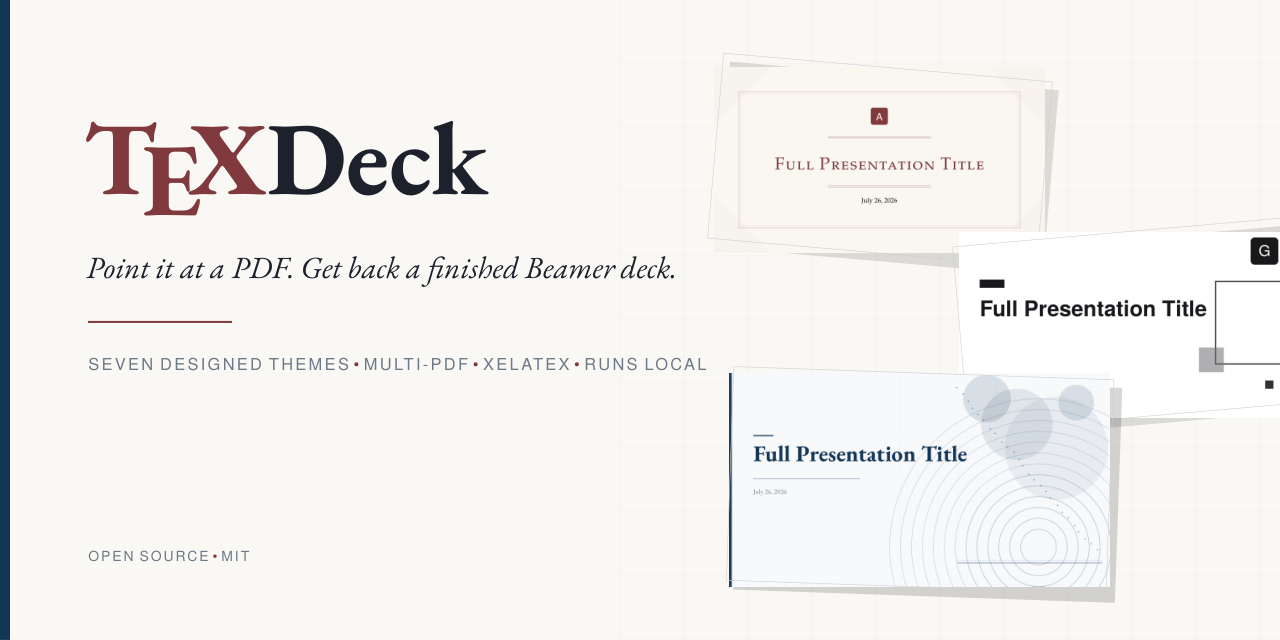
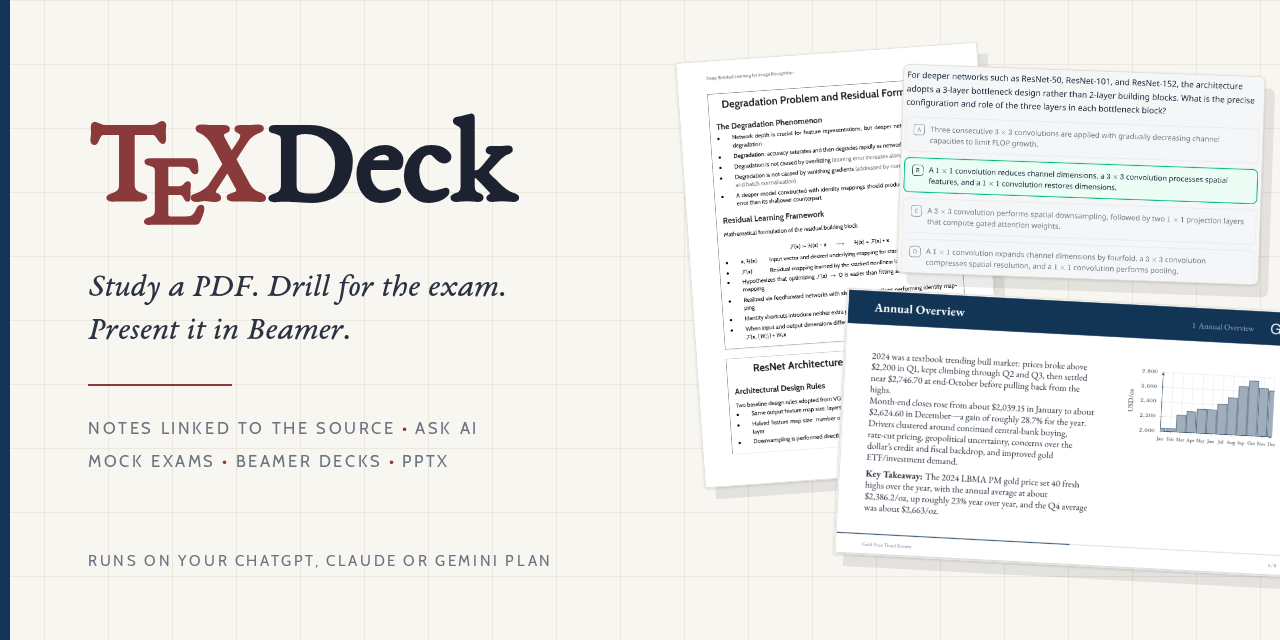
Docs: README leads with Learn (notes, questions, mock exams), new shots and demo
The README now covers the three things TeXDeck does: study notes linked to
their source pages, mock exams with per-topic mastery and drills, and Beamer
decks. New screenshots of the notebook and the exam pages, an animated
notebook walkthrough, release and license badges, and the model setup details
folded away. The social card names the Learn features and the current
license; the unused UI shot of the old single-page form is gone.

diff --git a/README.md b/README.md
@@ -1,24 +1,119 @@
 English | [简体中文](README.zh-CN.md)
 
-# TeXDeck
+<h1 align="center">TeXDeck</h1>
 
 <p align="center">
-  <img src="docs/promo.webp" alt="TeXDeck: a PDF goes in, a Beamer deck comes out" width="100%">
+  <b>Drop in a PDF. Study it, drill for the exam, then present it.</b><br>
+  Study notes linked to the source, mock exams that adapt to your weak topics, and Beamer decks, all typeset in LaTeX.<br>
+  Runs on the ChatGPT, Claude or Gemini plan you already pay for.
 </p>
 
-Drop in a PDF, get back a Beamer deck: the compiled PDF, the `.tex` source, and a zip that opens in Overleaf.
+<p align="center">
+  <a href="https://github.com/HuanPP/TeXDeck/releases/latest"><img src="https://img.shields.io/github/v/release/HuanPP/TeXDeck?color=13355a&label=release" alt="Latest release"></a>
+  <a href="https://github.com/HuanPP/TeXDeck/releases"><img src="https://img.shields.io/github/downloads/HuanPP/TeXDeck/total?color=8a3a3a" alt="Downloads"></a>
+  <img src="https://img.shields.io/badge/macOS%20%C2%B7%20Windows%20%C2%B7%20Linux%20%C2%B7%20Docker-desktop%20%26%20web-4b5563" alt="Platforms">
+  <a href="LICENSE"><img src="https://img.shields.io/badge/license-PolyForm%20Noncommercial-6b7280" alt="License"></a>
+  <a href="https://github.com/HuanPP/TeXDeck/stargazers"><img src="https://img.shields.io/github/stars/HuanPP/TeXDeck?style=social" alt="Stars"></a>
+</p>
+
+<p align="center">
+  <a href="https://github.com/HuanPP/TeXDeck/releases/latest"><b>Download the desktop app</b></a> ·
+  <a href="#install">Docker and source</a> ·
+  <a href="#pick-a-model">Models</a> ·
+  <a href="README.zh-CN.md">简体中文</a>
+</p>
+
+<p align="center">
+  <img src="docs/learn-demo.webp" alt="A notebook: the paper on the left, the generated notes in the middle, questions and answers on the right" width="100%">
+</p>
+
+<table>
+  <tr>
+    <td width="22%"><b>Study notes</b></td>
+    <td>A paper or a stack of lecture slides becomes a few pages of boxed notes. Every heading points back to its source page: double-click either side to jump to the other.</td>
+  </tr>
+  <tr>
+    <td width="22%"><b>Ask about any passage</b></td>
+    <td>Select a sentence, or drag a box around a figure or table, and ask. Answers cite page numbers, render the maths, and can be written back into the notes.</td>
+  </tr>
+  <tr>
+    <td width="22%"><b>Mock exams</b></td>
+    <td>Describe the exam or upload past papers. TeXDeck works out its structure and topics, then writes as many typeset mock papers as you want, each leaning toward what you keep getting wrong.</td>
+  </tr>
+  <tr>
+    <td width="22%"><b>Practise in the browser</b></td>
+    <td>One question at a time, marked as you go. Open questions are marked by the model the way your exam marks them. Per-topic mastery tells you what to drill next.</td>
+  </tr>
+  <tr>
+    <td width="22%"><b>Beamer decks</b></td>
+    <td>The original TeXDeck: a PDF in, a finished Beamer deck out, in one of seven templates. Click any text on a slide to change it, queue requests, export to PPTX.</td>
+  </tr>
+</table>
+
+Everything the model writes is LaTeX that compiles on your machine, so you get a real PDF, the `.tex` source, and a zip that opens in Overleaf.
+
+## Learn
+
+### Notes that know where they came from
+
+<p align="center">
+  <img src="docs/learn-notebook.png" alt="The notebook: source PDF, notes with learnt parts shaded green, an opened question with its answer" width="100%">
+</p>
+
+Create a notebook from one or more PDFs, or pasted text. The model reads the pages as images, so equations, tables and figures count, and writes compact notes: up to about six pages, one boxed sheet per theme, key terms in bold, examples and asides set apart. Notes follow the language of your material, or English or Chinese if you pick one.
+
+The notebook puts the source on the left and the notes in the middle. Each heading in the notes records the pages it was written from. Double-click a part of the notes and the source scrolls to its page; double-click a source page and the notes scroll to the part that covers it (double-click again to cycle through the others).
+
+The right column is for questions. Select text on either side, or switch on **Area** and drag a box around a figure, and ask. The model sees the notes, the source text and images of the quoted pages, and cites the pages it used. Each question leaves a numbered mark on the page, so you can reopen it later from where you asked it. Open several at once and drag them into any half-column, next to the passage they are about. **Add to notes** turns an answer into an edit request for the right box of the notes; apply it and the notes recompile with the source links intact.
+
+The thin rail at the far left tracks progress. Click a dot when you have learnt a part: it is shaded green in the notes, and a source page is shaded once every part that cites it is done.
+
+### Mock exams that aim at your weak spots
+
+<table>
+  <tr>
+    <td width="50%"><img src="docs/exam-topics.png" alt="An exam: its papers, topics with share of marks and mastery, a drill"></td>
+    <td width="50%"><img src="docs/exam-practice.png" alt="Practising a multiple-choice question, marked correct with an explanation citing the page"></td>
+  </tr>
+</table>
+
+Make an exam from the course material and tell it what you know about the real one: a sentence such as "10 multiple choice, 3 short answers, the teacher said bottleneck blocks matter", a table of question types and counts, the time allowed, and up to ten past papers as PDFs or phone photos. The model drafts a profile of the exam (sections, topics and their share of the marks, how questions are asked, how answers are marked) that you can edit before anything is written. Past papers carry the most weight; where your description disagrees with them, your description wins, since it is about this year's exam.
+
+Each **New paper** is a full mock exam typeset in LaTeX, with an answer key, and avoids the questions of the papers before it. Practise it in the browser one question at a time: multiple choice, true or false and fill-in answers are marked on the spot, and short answers and calculations are marked by the model against the exam's marking habits, or by you against the model answer.
+
+Every answer counts toward a per-topic mastery score, with recent answers weighing most. The topic list is sorted by share of marks times what you still don't know, and the top one is flagged **Practise next**. Later papers lean toward your weak topics, and **Drill** writes 10 to 15 questions of one kind on one topic, starting easy and changing one thing at a time. You can add topics of your own, with example questions, for things the material leaves out.
+
+<p align="center">
+  <img src="docs/exam-paper.png" alt="The typeset mock paper" width="70%">
+</p>
+
+## Present
+
+<p align="center">
+  <img src="docs/promo.webp" alt="A PDF goes in, a Beamer deck comes out" width="100%">
+</p>
+
+Drop in a PDF and get back a Beamer deck. A vision model reads your pages as images and writes a complete `main.tex` against the template you pick; it takes about a minute.
 
 <p align="center">
   <img src="docs/hero.png" alt="A source PDF page on the left, the generated Beamer slide on the right" width="100%">
 </p>
 
-A vision model reads your pages as images and writes a complete `main.tex` against the template you pick. It takes about a minute. You can then fix wording by clicking it on the slide, and queue requests for any slides or the whole deck, with images attached if you like; they go to the model in one call and compile once. After compiling, slides whose text collides or that run off the page are found and sent back to the model to fix. The model also keeps a short memory of your habits and of the mistakes you had to fix, follows it in every new deck, and lets you edit it from the Memory button. The source on the left is [`docs/demo/gold-price-2024.pdf`](docs/demo/gold-price-2024.pdf), so you can try it yourself. Slides follow the language of your material unless you pick English or Chinese. Add your own photos, screenshots or logos to the form, with an optional note on where each goes, and the model picks the slide, size and layout for them.
+After that you can fix wording by clicking it on the slide, and queue requests for any slides or the whole deck, with images attached if you like; they go to the model in one call and compile once. After compiling, slides whose text collides or that run off the page are found and sent back to the model to fix. The model keeps a short memory of your habits and of the mistakes you had to fix, follows it in every new deck, and lets you edit it from the Memory button. Add your own photos, screenshots or logos to the form, with an optional note on where each goes, and the model picks the slide, size and layout for them. Speaker notes come with every deck and land in PowerPoint's notes pane on export.
 
-**No API key needed:** it runs on the ChatGPT, Claude or Antigravity subscription you already pay for. An API key works too.
+**Export to PPTX** keeps the text editable: each slide becomes a background image plus text boxes where the text was, set in the closest font your computer actually has. The source on the left above is [`docs/demo/gold-price-2024.pdf`](docs/demo/gold-price-2024.pdf), so you can try it yourself.
+
+<p align="center">
+  <img src="docs/templates.png" alt="Title pages of the seven bundled templates" width="100%">
+</p>
+
+Seven templates are bundled: Academic, Emerald, Graphite, Navy, Scholar, SimplePlus and Execushares. All of them handle Chinese. To restyle one without touching LaTeX, click **New template**: pick the colours, upload a logo, and place any picture as the title-page background, with the sample deck recompiling as you go.
+
+There is no prompt library. Each template's `main.tex` is a complete example deck, and the model copies it. To make your own, copy `templates/academic`, change `key` and `name` in `template.json`, and edit `main.tex`. Real charts in the example mean real charts in the output.
 
 ## Install
 
-**Desktop app.** Download it from [Releases](https://github.com/HuanPP/TeXDeck/releases) (macOS Apple silicon, Windows, Linux). It bundles its own TeX engine, so you don't need a TeX install. The builds are unsigned: on macOS, right-click the app and choose Open; on Windows, choose More info, then Run anyway.
+**Desktop app.** Download it from [Releases](https://github.com/HuanPP/TeXDeck/releases/latest) (macOS Apple silicon, Windows, Linux). It bundles its own TeX engine, so you don't need a TeX install. The builds are unsigned: on macOS, right-click the app and choose Open; on Windows, choose More info, then Run anyway.
 
 **Docker.**
 
@@ -35,11 +130,11 @@ cp server/.env.example server/.env && ./server/run.sh     # API on :8000
 cd web && npm install && npm run dev                      # UI on :5173
 ```
 
-**On a server.** Set `TEXDECK_REGISTRATION=true` and sign up first with the invite code `hi_my_texdeck`; that account is the admin and hands out one-use invite codes, and every account connects its own ChatGPT, Claude or API key. Or add accounts on the server (`python -m app.auth add <username>`). Either way the page then asks for a sign-in and the API refuses requests without one. [`docs/deploy`](docs/deploy) has the full setup behind Caddy and Cloudflare, with example service files.
+**On a server, for several people.** Set `TEXDECK_REGISTRATION=true` and sign up first with the invite code `hi_my_texdeck`; that account is the admin and hands out one-use invite links from the Invites menu. Every account connects its own model and sees only its own work. Or add accounts on the server (`python -m app.auth add <username>`). [`docs/deploy`](docs/deploy) has the full setup behind Caddy and Cloudflare, with example service files.
 
 ## Pick a model
 
-Click the model button in the top bar. It lists four ways to run the model; you can switch between them, and pick the model for each, at any time:
+**No API key needed.** Click the model button in the top bar. It lists four ways to run the model; you can switch between them, and pick the model for each, at any time:
 
 **ChatGPT**, on your ChatGPT plan. Click Connect, sign in, then pick one of the models your account offers.
 
@@ -49,27 +144,20 @@ Click the model button in the top bar. It lists four ways to run the model; you 
 
 **API key**, for any OpenAI-compatible vision model: enter the key, base URL and model name, e.g. `https://generativelanguage.googleapis.com/v1beta/openai/` with `gemini-pro-latest` (recommended; Kimi vision models also work). Text-only models won't work, because pages are sent as images.
 
+<details>
+<summary>How Claude and Antigravity are run, and where settings live</summary>
+
 With Claude, TeXDeck drives your own Claude Code CLI in headless mode (`claude -p`, no tools, CLAUDE.md and plugins off). The login belongs to Claude Code and TeXDeck never sees the credentials; switching away leaves it signed in. Pick Fable, Opus, Sonnet or Haiku in the panel (Sonnet by default); whether your plan includes a model is up to Anthropic, and Claude Code says so if it does not. If `ANTHROPIC_API_KEY` is set in the environment, Claude Code bills the API instead of your plan. The Docker image has no Claude Code, so Claude is for the desktop app and source installs.
 
 agy is a coding agent whose tools cannot be turned off: it reads any file it is pointed at, and with permissive settings it runs commands unasked. A PDF carrying the right instructions could make use of that, so TeXDeck only runs agy inside [bubblewrap](https://github.com/containers/bubblewrap) (`bwrap`), where it sees the system files read-only, its own sign-in and the request's scratch folder, and nothing else. Without `bwrap` (macOS, Windows, the Docker image) Antigravity is not offered. Each account signs in to its own agy home, separate from the agy you use in a terminal. Its input takes text only, so images are handed over as files that the agent opens; that makes it slower than the other options.
 
 The choice and any API key entered there are saved next to the other app data. `.env` (or `texdeck.env` in the desktop app's data folder) can still preset the API key with `TEXDECK_LLM_API_KEY`, `TEXDECK_LLM_BASE_URL` and `TEXDECK_LLM_MODEL`.
 
-## Templates
-
-<p align="center">
-  <img src="docs/templates.png" alt="Title pages of the seven bundled templates" width="100%">
-</p>
-
-The bundle has seven templates: Academic, Emerald, Graphite, Navy, Scholar, SimplePlus and Execushares. All of them handle Chinese. Licenses are listed in [NOTICE](NOTICE).
-
-To restyle one without touching LaTeX, click New template (or the palette icon on Academic, Emerald, Graphite, Navy or Scholar). The editor shows the sample deck recompiled as you change it. Pick the colours, upload a logo, and place any picture as the title-page background: move, scale, stretch and rotate it on the 16:9 page, with a blurred copy, a colour or the original background behind it. Saved templates are per account and only store the changes; the layout still comes from the built-in template.
-
-There is no prompt library. Each template's `main.tex` is a complete example deck, and the model copies it. To make your own, copy `templates/academic`, change `key` and `name` in `template.json`, and edit `main.tex`. Real charts in the example mean real charts in the output.
+</details>
 
 ## Good to know
 
-If the model writes TeX that won't compile even after the automatic repair pass, the job fails and shows the real log. You never get a half-broken deck. Press Regenerate and it usually works. Slide counts are approximate. Input is limited to 10 PDFs and 200 pages in total.
+If the model writes TeX that won't compile even after the automatic repair pass, the job fails and shows the real log. You never get a half-broken document. Press Regenerate and it usually works. Slide counts are approximate. Input is limited to 10 PDFs and 200 pages in total.
 
 ```bash
 cd server && ../.venv/bin/python -m pytest      # includes a real compile of every template
@@ -78,4 +166,4 @@ python desktop/build.py                         # build the desktop app for this
 
 ## License
 
-TeXDeck is source-available under the [PolyForm Noncommercial License 1.0.0](LICENSE). Personal, educational and other noncommercial use is free. Commercial use requires a separate license from the author; contact [HuanPP](https://github.com/HuanPP). Bundled themes keep their own licenses; see [NOTICE](NOTICE).
+TeXDeck is source-available under the [PolyForm Noncommercial License 1.0.0](LICENSE). Personal, educational and other noncommercial use is free. Commercial use requires a separate license from the author; contact [HuanPP](https://github.com/HuanPP). Releases up to v0.6.1 were published under MIT. Bundled themes and fonts keep their own licenses; see [NOTICE](NOTICE).

diff --git a/README.zh-CN.md b/README.zh-CN.md
@@ -1,24 +1,119 @@
 [English](README.md) | 简体中文
 
-# TeXDeck
+<h1 align="center">TeXDeck</h1>
 
 <p align="center">
-  <img src="docs/promo.webp" alt="TeXDeck：放进 PDF，拿回 Beamer" width="100%">
+  <b>放进一份 PDF：读懂它，备考它，再把它讲出来。</b><br>
+  和原文双向对照的学习笔记、盯着薄弱考点出题的模拟卷、Beamer 幻灯片，全部用 LaTeX 排版。<br>
+  直接用你已经开通的 ChatGPT、Claude 或 Gemini 订阅。
 </p>
 
-丢进一份 PDF，拿回一套 Beamer：编译好的 PDF、`.tex` 源码，以及能直接导入 Overleaf 的 zip。
+<p align="center">
+  <a href="https://github.com/HuanPP/TeXDeck/releases/latest"><img src="https://img.shields.io/github/v/release/HuanPP/TeXDeck?color=13355a&label=release" alt="最新版本"></a>
+  <a href="https://github.com/HuanPP/TeXDeck/releases"><img src="https://img.shields.io/github/downloads/HuanPP/TeXDeck/total?color=8a3a3a" alt="下载量"></a>
+  <img src="https://img.shields.io/badge/macOS%20%C2%B7%20Windows%20%C2%B7%20Linux%20%C2%B7%20Docker-desktop%20%26%20web-4b5563" alt="平台">
+  <a href="LICENSE"><img src="https://img.shields.io/badge/license-PolyForm%20Noncommercial-6b7280" alt="许可证"></a>
+  <a href="https://github.com/HuanPP/TeXDeck/stargazers"><img src="https://img.shields.io/github/stars/HuanPP/TeXDeck?style=social" alt="Star"></a>
+</p>
+
+<p align="center">
+  <a href="https://github.com/HuanPP/TeXDeck/releases/latest"><b>下载桌面版</b></a> ·
+  <a href="#安装">Docker 与源码运行</a> ·
+  <a href="#选模型">选模型</a> ·
+  <a href="README.md">English</a>
+</p>
+
+<p align="center">
+  <img src="docs/learn-demo.webp" alt="笔记本界面：左边是论文，中间是生成的笔记，右边是提问和回答" width="100%">
+</p>
+
+<table>
+  <tr>
+    <td width="22%"><b>学习笔记</b></td>
+    <td>一篇论文或一叠课件变成几页带框的笔记。每个标题都记着出处页码，双击任意一边就跳到另一边对应的位置。</td>
+  </tr>
+  <tr>
+    <td width="22%"><b>对任意段落提问</b></td>
+    <td>选中一句话，或者框住一张图、一个表格，直接提问。回答标注页码、正常渲染公式，还能一键写回笔记。</td>
+  </tr>
+  <tr>
+    <td width="22%"><b>模拟考试</b></td>
+    <td>描述一下考试，或者上传往年题。TeXDeck 先摸清考试的结构和考点，再出任意多张排版好的模拟卷，每张都偏向你总做错的部分。</td>
+  </tr>
+  <tr>
+    <td width="22%"><b>在浏览器里刷题</b></td>
+    <td>一题一题做，做完即判。主观题由模型按这门考试的评分习惯打分。每个考点的掌握度告诉你下一步该练什么。</td>
+  </tr>
+  <tr>
+    <td width="22%"><b>Beamer 幻灯片</b></td>
+    <td>TeXDeck 的老本行：放进 PDF，拿回一套完整的 Beamer，七套模板可选。点幻灯片上的字就能改，修改要求可以攒着一起提，还能导出 PPTX。</td>
+  </tr>
+</table>
+
+模型写出的一切都是在你本机编译的 LaTeX：拿到的是真正的 PDF、`.tex` 源码，以及能直接导入 Overleaf 的 zip。
+
+## 学习
+
+### 知道自己出自哪一页的笔记
+
+<p align="center">
+  <img src="docs/learn-notebook.png" alt="笔记本：原文 PDF、已学部分罩绿色的笔记、打开的问题和回答" width="100%">
+</p>
+
+用一份或多份 PDF（也可以粘贴文字）新建笔记本。模型把页面当图片读，公式、表格和插图都算在内，写出紧凑的笔记：最多约六页，一个主题一个框，关键词加粗，例子和旁注单独排开。笔记语言默认跟随材料，也可以指定中文或英文。
+
+笔记本左边是原文，中间是笔记。笔记里每个标题都记着它依据的原文页码：双击笔记的某一部分，原文翻到对应页；双击原文某一页，笔记滚到讲这一页的部分，再双击会依次切换到其他相关部分。
+
+右栏用来提问。在任意一边选中文字，或者打开 **Area** 框住一张图，然后提问。模型能看到笔记、原文文字和被引页面的图片，回答里标出用到的页码。每个问题会在页面上留下一个编号，之后点它就能从提问的位置重新打开。可以同时打开多个问题卡片，拖到任意半栏，放在它所讲的段落旁边。**Add to notes** 把一条回答变成对笔记相应框的修改请求，应用后笔记重新编译，出处标注照样保留。
+
+最左边的细栏记录进度。学完一部分就点一下对应的小点：笔记上这部分罩成浅绿色；某页原文被引用的部分全部学完后，这一页也会整页罩色。
+
+### 专攻薄弱点的模拟考试
+
+<table>
+  <tr>
+    <td width="50%"><img src="docs/exam-topics.png" alt="一场考试：已出的卷子、各考点的分值占比与掌握度、专项练习"></td>
+    <td width="50%"><img src="docs/exam-practice.png" alt="练习一道单选题，答对后显示带页码的解析"></td>
+  </tr>
+</table>
+
+用课程材料新建一场考试，再把你对真实考试的了解告诉它：一句话描述（例如“10 道单选、3 道简答，老师说瓶颈结构是重点”）、题型与题量表、考试时长，以及最多十份往年题，PDF 或手机拍照都行。模型先起草一份考试画像：分几部分、有哪些考点及各自的分值占比、题目怎么问、答案怎么评分。出题之前你可以修改它。往年题的权重最高；你的描述和往年题冲突时以描述为准，因为它说的是今年的考试。
+
+每点一次 **New paper** 就得到一整张 LaTeX 排版的模拟卷和答案，并且避开之前各卷出过的题。可以在浏览器里一题一题地练：选择、判断、填空当场判分，简答和计算由模型按这门考试的评分习惯打分，也可以对照参考答案自己评。
+
+每道题的得分都计入对应考点的掌握度，越近的作答权重越高。考点列表按“分值占比 × 尚未掌握的程度”排序，排第一的标为 **Practise next**。之后出的卷子会偏向你的薄弱考点；**Drill** 针对一个考点出 10 到 15 道同一题型的题，由浅入深，每题只变一处。材料里没覆盖的内容，可以自己加考点并附上例题。
+
+<p align="center">
+  <img src="docs/exam-paper.png" alt="排版好的模拟卷" width="70%">
+</p>
+
+## 演示
+
+<p align="center">
+  <img src="docs/promo.webp" alt="放进 PDF，拿回 Beamer" width="100%">
+</p>
+
+丢进一份 PDF，拿回一套 Beamer。视觉模型把页面当图片读，按你选的模板写出完整的 `main.tex`，一分钟左右出结果。
 
 <p align="center">
   <img src="docs/hero.png" alt="左侧是源 PDF 页，右侧是生成的 Beamer 幻灯片" width="100%">
 </p>
 
-视觉模型把页面当图片读，按你选的模板写出完整的 `main.tex`，一分钟左右出结果。之后可以在幻灯片上点击文字直接改字，也可以给任意几页或整套提修改要求（可以附图或直接粘贴截图），攒齐后一次交给模型、只编译一次。编译后会自动找出文字互相压住或超出页面的页，交回模型修正。模型还会记住你的习惯和你改过的常见错误，之后每次生成都照着做，记忆内容可以在顶栏的 Memory 里随时修改。左图的源文件是 [`docs/demo/gold-price-2024.pdf`](docs/demo/gold-price-2024.pdf)，可以自己跑一遍。幻灯片语言默认跟随材料，也可以在表单里指定中文或英文。表单里还可以加入自己的照片、截图或 logo，每张可附一句放在哪里的备注，由模型决定放在哪一页、多大、怎样排版。
+之后可以在幻灯片上点击文字直接改字，也可以给任意几页或整套提修改要求（可以附图或直接粘贴截图），攒齐后一次交给模型、只编译一次。编译后会自动找出文字互相压住或超出页面的页，交回模型修正。模型还会记住你的习惯和你改过的常见错误，之后每次生成都照着做，记忆内容可以在顶栏的 Memory 里随时修改。表单里可以加入自己的照片、截图或 logo，每张可附一句放在哪里的备注，由模型决定放在哪一页、多大、怎样排版。每套幻灯片都带演讲者备注，导出 PPTX 时写进 PowerPoint 的备注栏。
 
-**不需要 API key**：直接用你已经开通的 ChatGPT、Claude 或 Antigravity 订阅，也支持 API key。
+**导出 PPTX** 后文字仍可编辑：每页是一张背景图加上原位置的文本框，字体选你电脑上实际装有的最接近的一款。上图左侧的源文件是 [`docs/demo/gold-price-2024.pdf`](docs/demo/gold-price-2024.pdf)，可以自己跑一遍。
+
+<p align="center">
+  <img src="docs/templates.png" alt="七套内置模板的标题页" width="100%">
+</p>
+
+内置七套模板：Academic、Emerald、Graphite、Navy、Scholar、SimplePlus、Execushares，都支持中文。不写 LaTeX 也能改出自己的样式：点 **New template**，改配色、上传 logo，把任意图片放到标题页背景上，示例幻灯片边改边重新编译。
+
+项目里没有提示词库。每套模板的 `main.tex` 都是一套完整的示例幻灯片，模型照着它写。做自己的模板：复制 `templates/academic`，改 `template.json` 里的 `key` 和 `name`，再改 `main.tex`。示例里放真图表，生成结果里就有真图表。
 
 ## 安装
 
-**桌面版**：从 [Releases](https://github.com/HuanPP/TeXDeck/releases) 下载（macOS Apple 芯片、Windows、Linux），自带 TeX 引擎，不用另装 TeX。安装包没有签名：macOS 上右键选“打开”，Windows 上点“更多信息”，再点“仍要运行”。
+**桌面版**：从 [Releases](https://github.com/HuanPP/TeXDeck/releases/latest) 下载（macOS Apple 芯片、Windows、Linux），自带 TeX 引擎，不用另装 TeX。安装包没有签名：macOS 上右键选“打开”，Windows 上点“更多信息”，再点“仍要运行”。
 
 **Docker**：
 
@@ -35,11 +130,11 @@ cp server/.env.example server/.env && ./server/run.sh     # API 在 :8000
 cd web && npm install && npm run dev                      # 界面在 :5173
 ```
 
-**部署到服务器**：设 `TEXDECK_REGISTRATION=true`，先用邀请码 `hi_my_texdeck` 注册第一个账号，它就是管理员，之后由管理员发一次性邀请码；每个账号连接自己的 ChatGPT、Claude 或 API key。也可以在服务器上直接建账号（`python -m app.auth add <用户名>`）。两种方式下页面都会要求登录，没有登录的请求一律被接口拒绝。[`docs/deploy`](docs/deploy) 里有放在 Caddy 和 Cloudflare 后面的完整做法和示例配置文件。
+**部署到服务器，多人共用**：设 `TEXDECK_REGISTRATION=true`，先用邀请码 `hi_my_texdeck` 注册第一个账号，它就是管理员，之后在 Invites 菜单里复制一次性的邀请链接发给别人。每个账号连接自己的模型，只看得到自己的内容。也可以在服务器上直接建账号（`python -m app.auth add <用户名>`）。[`docs/deploy`](docs/deploy) 里有放在 Caddy 和 Cloudflare 后面的完整做法和示例配置文件。
 
 ## 选模型
 
-点顶栏的模型按钮，面板里列出四种用法，随时可以切换，也可以分别选择模型：
+**不需要 API key。** 点顶栏的模型按钮，面板里列出四种用法，随时可以切换，也可以分别选择模型：
 
 **ChatGPT**：用你的 ChatGPT 订阅，点 Connect 登录，再从账号可用的模型里选一个。
 
@@ -49,27 +144,20 @@ cd web && npm install && npm run dev                      # 界面在 :5173
 
 **API key**：任意 OpenAI 兼容的视觉模型，填入 key、Base URL 和模型名，例如 `https://generativelanguage.googleapis.com/v1beta/openai/` 配 `gemini-pro-latest`（推荐；Kimi 的 vision 模型也能用）。纯文本模型用不了，因为页面是以图片形式发给模型的。
 
+<details>
+<summary>Claude 和 Antigravity 怎样运行，设置存在哪里</summary>
+
 用 Claude 时，TeXDeck 以无头模式驱动你本机的 Claude Code（`claude -p`，不开工具，不加载 CLAUDE.md 和插件）。登录状态归 Claude Code 管，TeXDeck 接触不到凭据，切换到别的方式也不会让它退出登录。模型在面板里选 Fable、Opus、Sonnet 或 Haiku，默认 Sonnet；订阅是否包含某个模型由 Anthropic 决定，不包含时 Claude Code 会直接报错说明。环境里设了 `ANTHROPIC_API_KEY` 的话，Claude Code 会改走 API 计费。Docker 镜像里没有 Claude Code，Claude 只适用于桌面版和源码运行。
 
 agy 是一个工具关不掉的编程 agent：它能读任何被指到的文件，配置宽松时还会自行执行命令，夹带指令的 PDF 可以利用这一点。所以 TeXDeck 只在 [bubblewrap](https://github.com/containers/bubblewrap)（`bwrap`）沙箱里运行 agy，它只能看到只读的系统文件、自己的登录和本次请求的临时目录。没有 `bwrap` 的环境（macOS、Windows、Docker 镜像）不提供 Antigravity。每个账号各自登录一份独立的 agy，与你在终端里用的 agy 互不相干。它的输入只接受文字，图片以文件形式交给 agent 自己打开，因此比其他方式慢。
 
 面板里的选择和填入的 API key 会保存在应用数据目录。也仍然可以在 `.env`（桌面版是数据目录的 `texdeck.env`）里用 `TEXDECK_LLM_API_KEY`、`TEXDECK_LLM_BASE_URL`、`TEXDECK_LLM_MODEL` 预设 API key。
 
-## 模板
-
-<p align="center">
-  <img src="docs/templates.png" alt="七套内置模板的标题页" width="100%">
-</p>
-
-内置七套模板：Academic、Emerald、Graphite、Navy、Scholar、SimplePlus、Execushares，都支持中文，许可证见 [NOTICE](NOTICE)。
-
-不写 LaTeX 也能改出自己的样式：点 New template（或在 Academic、Emerald、Graphite、Navy、Scholar 上点调色板图标）。编辑器边改边重新编译示例幻灯片，可以改配色、上传 logo，并把任意图片放到标题页背景上：在 16:9 页面里拖动、缩放、拉伸、旋转，空白处用模糊图、纯色或原背景填充。保存的模板按账号隔离，只存改动部分，版式仍来自内置模板。
-
-项目里没有提示词库。每套模板的 `main.tex` 都是一套完整的示例幻灯片，模型照着它写。做自己的模板：复制 `templates/academic`，改 `template.json` 里的 `key` 和 `name`，再改 `main.tex`。示例里放真图表，生成结果里就有真图表。
+</details>
 
 ## 须知
 
-模型写出的 TeX 如果经过自动修复仍然编译不过，任务会直接失败并给出真实日志，不会交出半残的幻灯片。点 Regenerate 重跑一般就能成功。页数要求只是参考。输入上限为 10 份 PDF、合计 200 页。
+模型写出的 TeX 如果经过自动修复仍然编译不过，任务会直接失败并给出真实日志，不会交出半残的文档。点 Regenerate 重跑一般就能成功。幻灯片页数要求只是参考。输入上限为 10 份 PDF、合计 200 页。
 
 ```bash
 cd server && ../.venv/bin/python -m pytest      # 含每套模板的真实编译
@@ -78,4 +166,4 @@ python desktop/build.py                         # 为本机打包桌面版
 
 ## 许可证
 
-TeXDeck 采用 [PolyForm Noncommercial License 1.0.0](LICENSE)，源码公开。个人、教学及其他非商业用途免费；商业用途须另行取得作者授权，请联系 [HuanPP](https://github.com/HuanPP)。内置主题各自保留原许可证，见 [NOTICE](NOTICE)。
+TeXDeck 采用 [PolyForm Noncommercial License 1.0.0](LICENSE)，源码公开。个人、教学及其他非商业用途免费；商业用途须另行取得作者授权，请联系 [HuanPP](https://github.com/HuanPP)。v0.6.1 及以前的版本以 MIT 发布。内置主题和字体各自保留原许可证，见 [NOTICE](NOTICE)。
